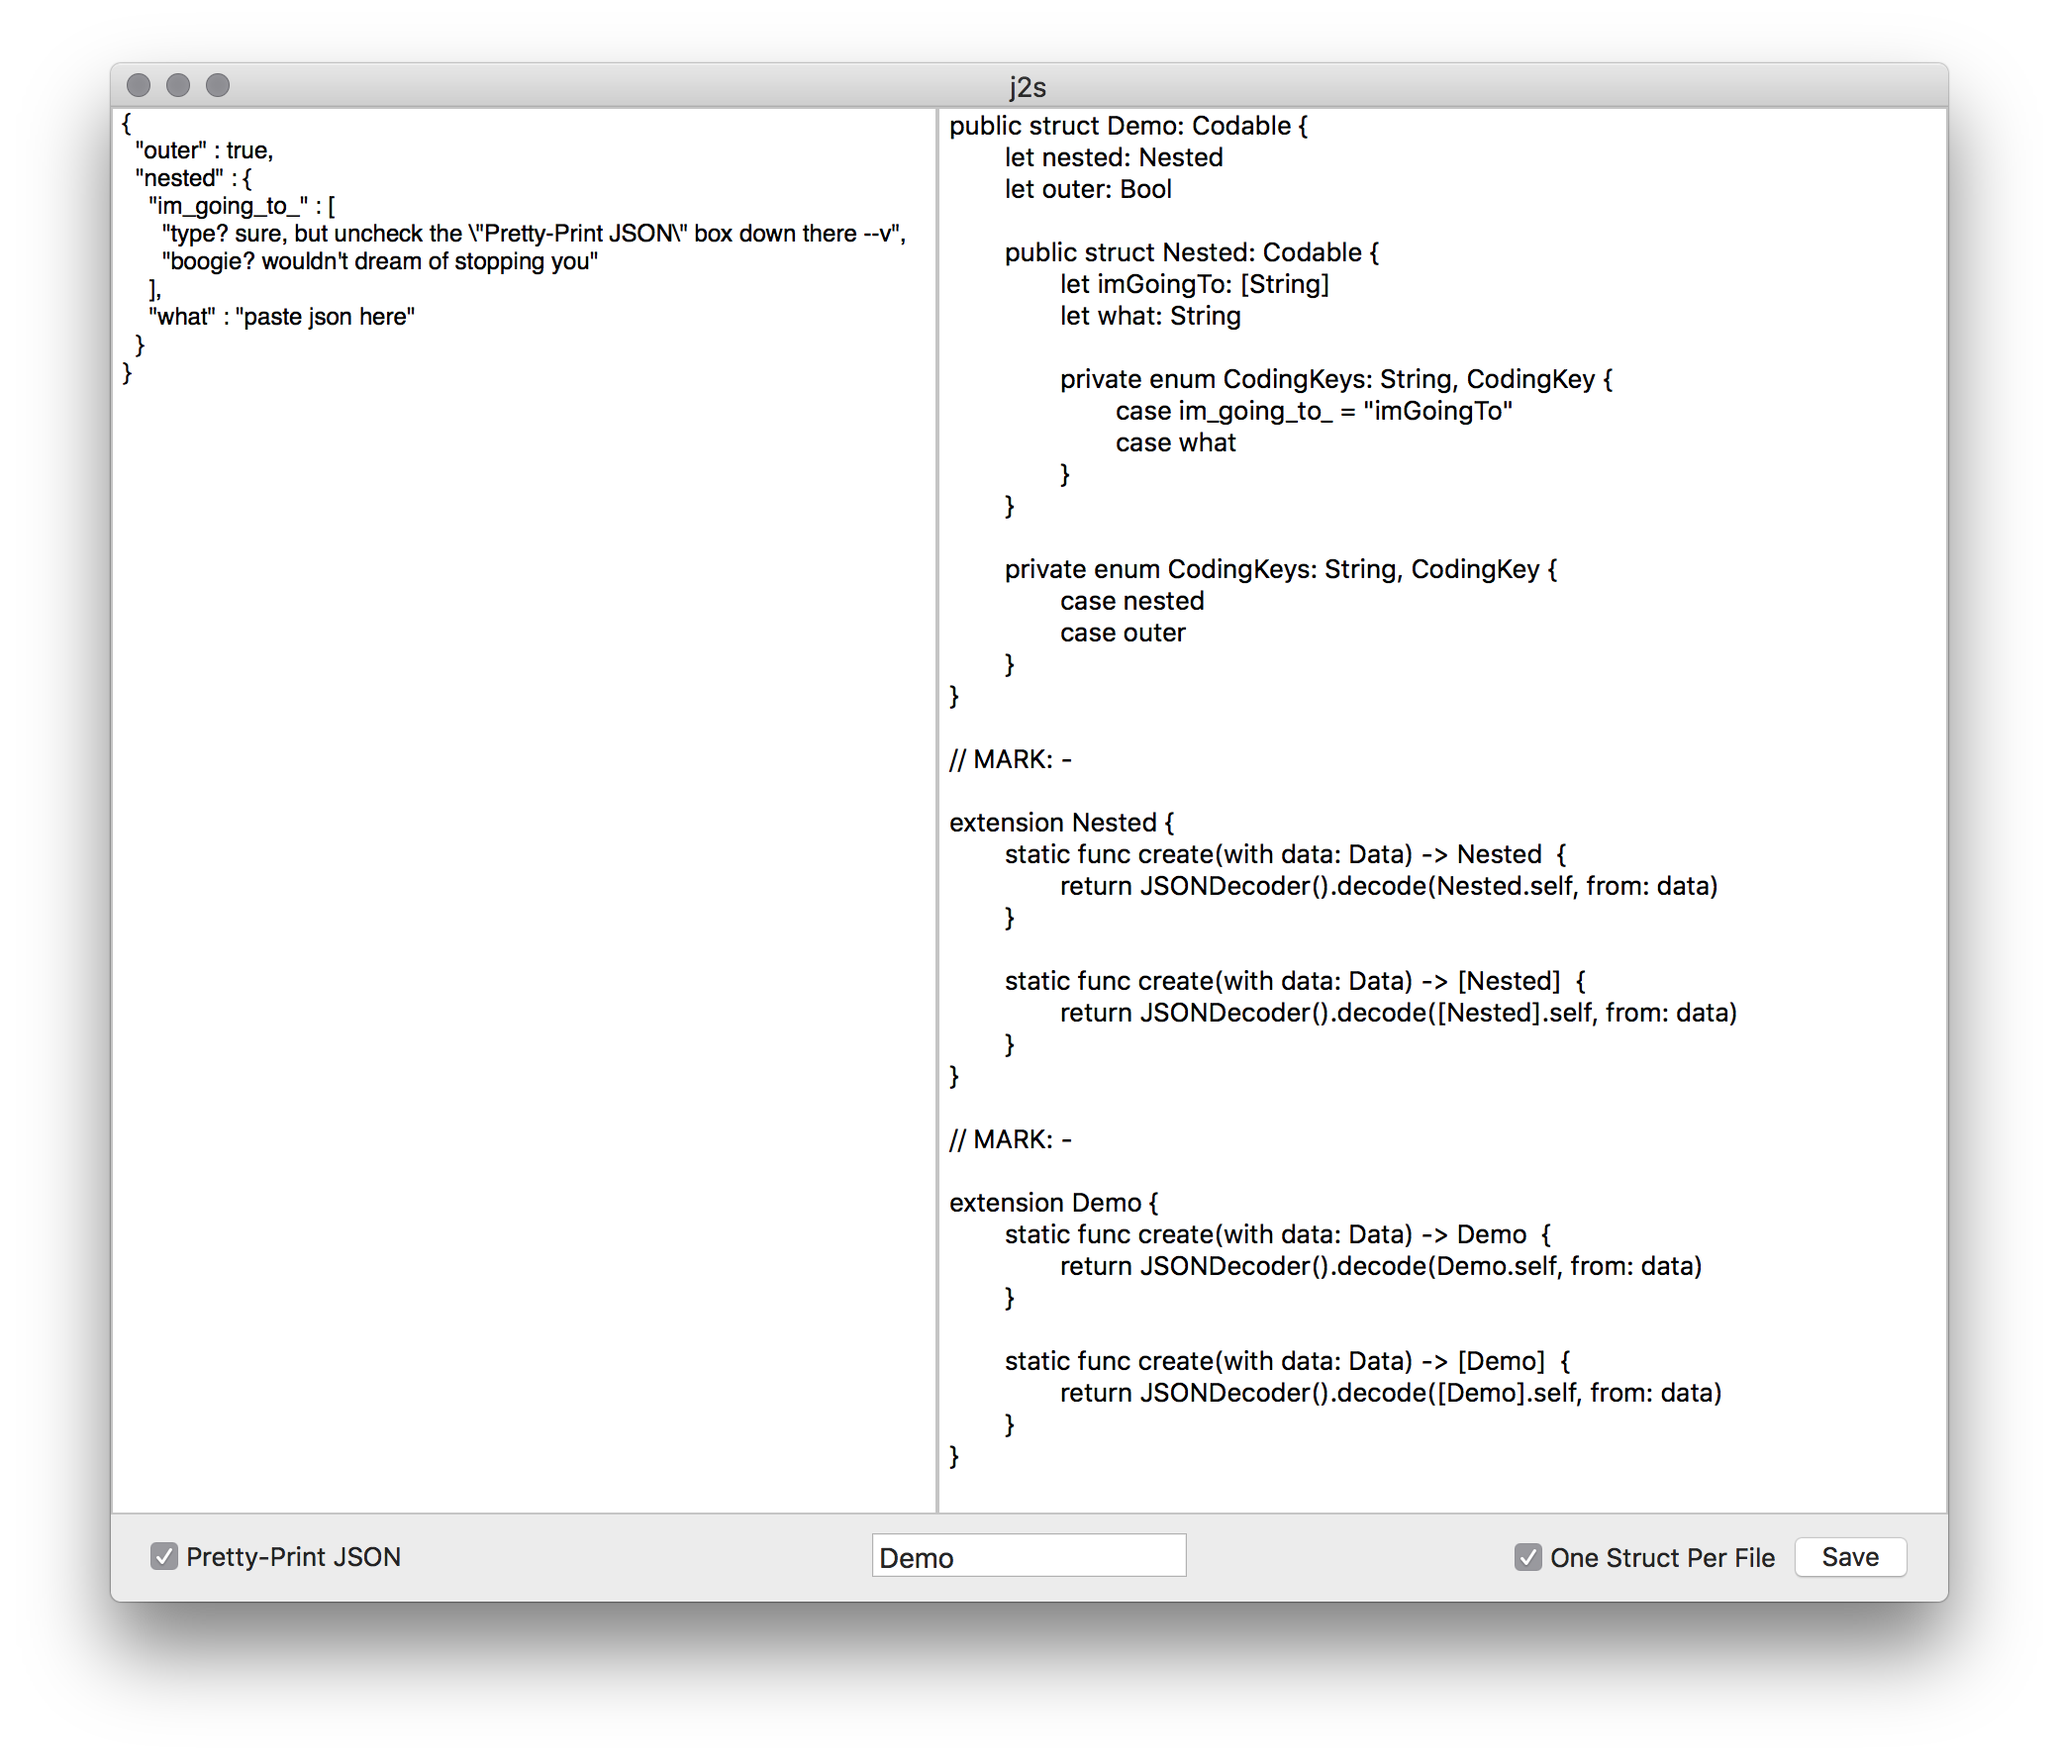
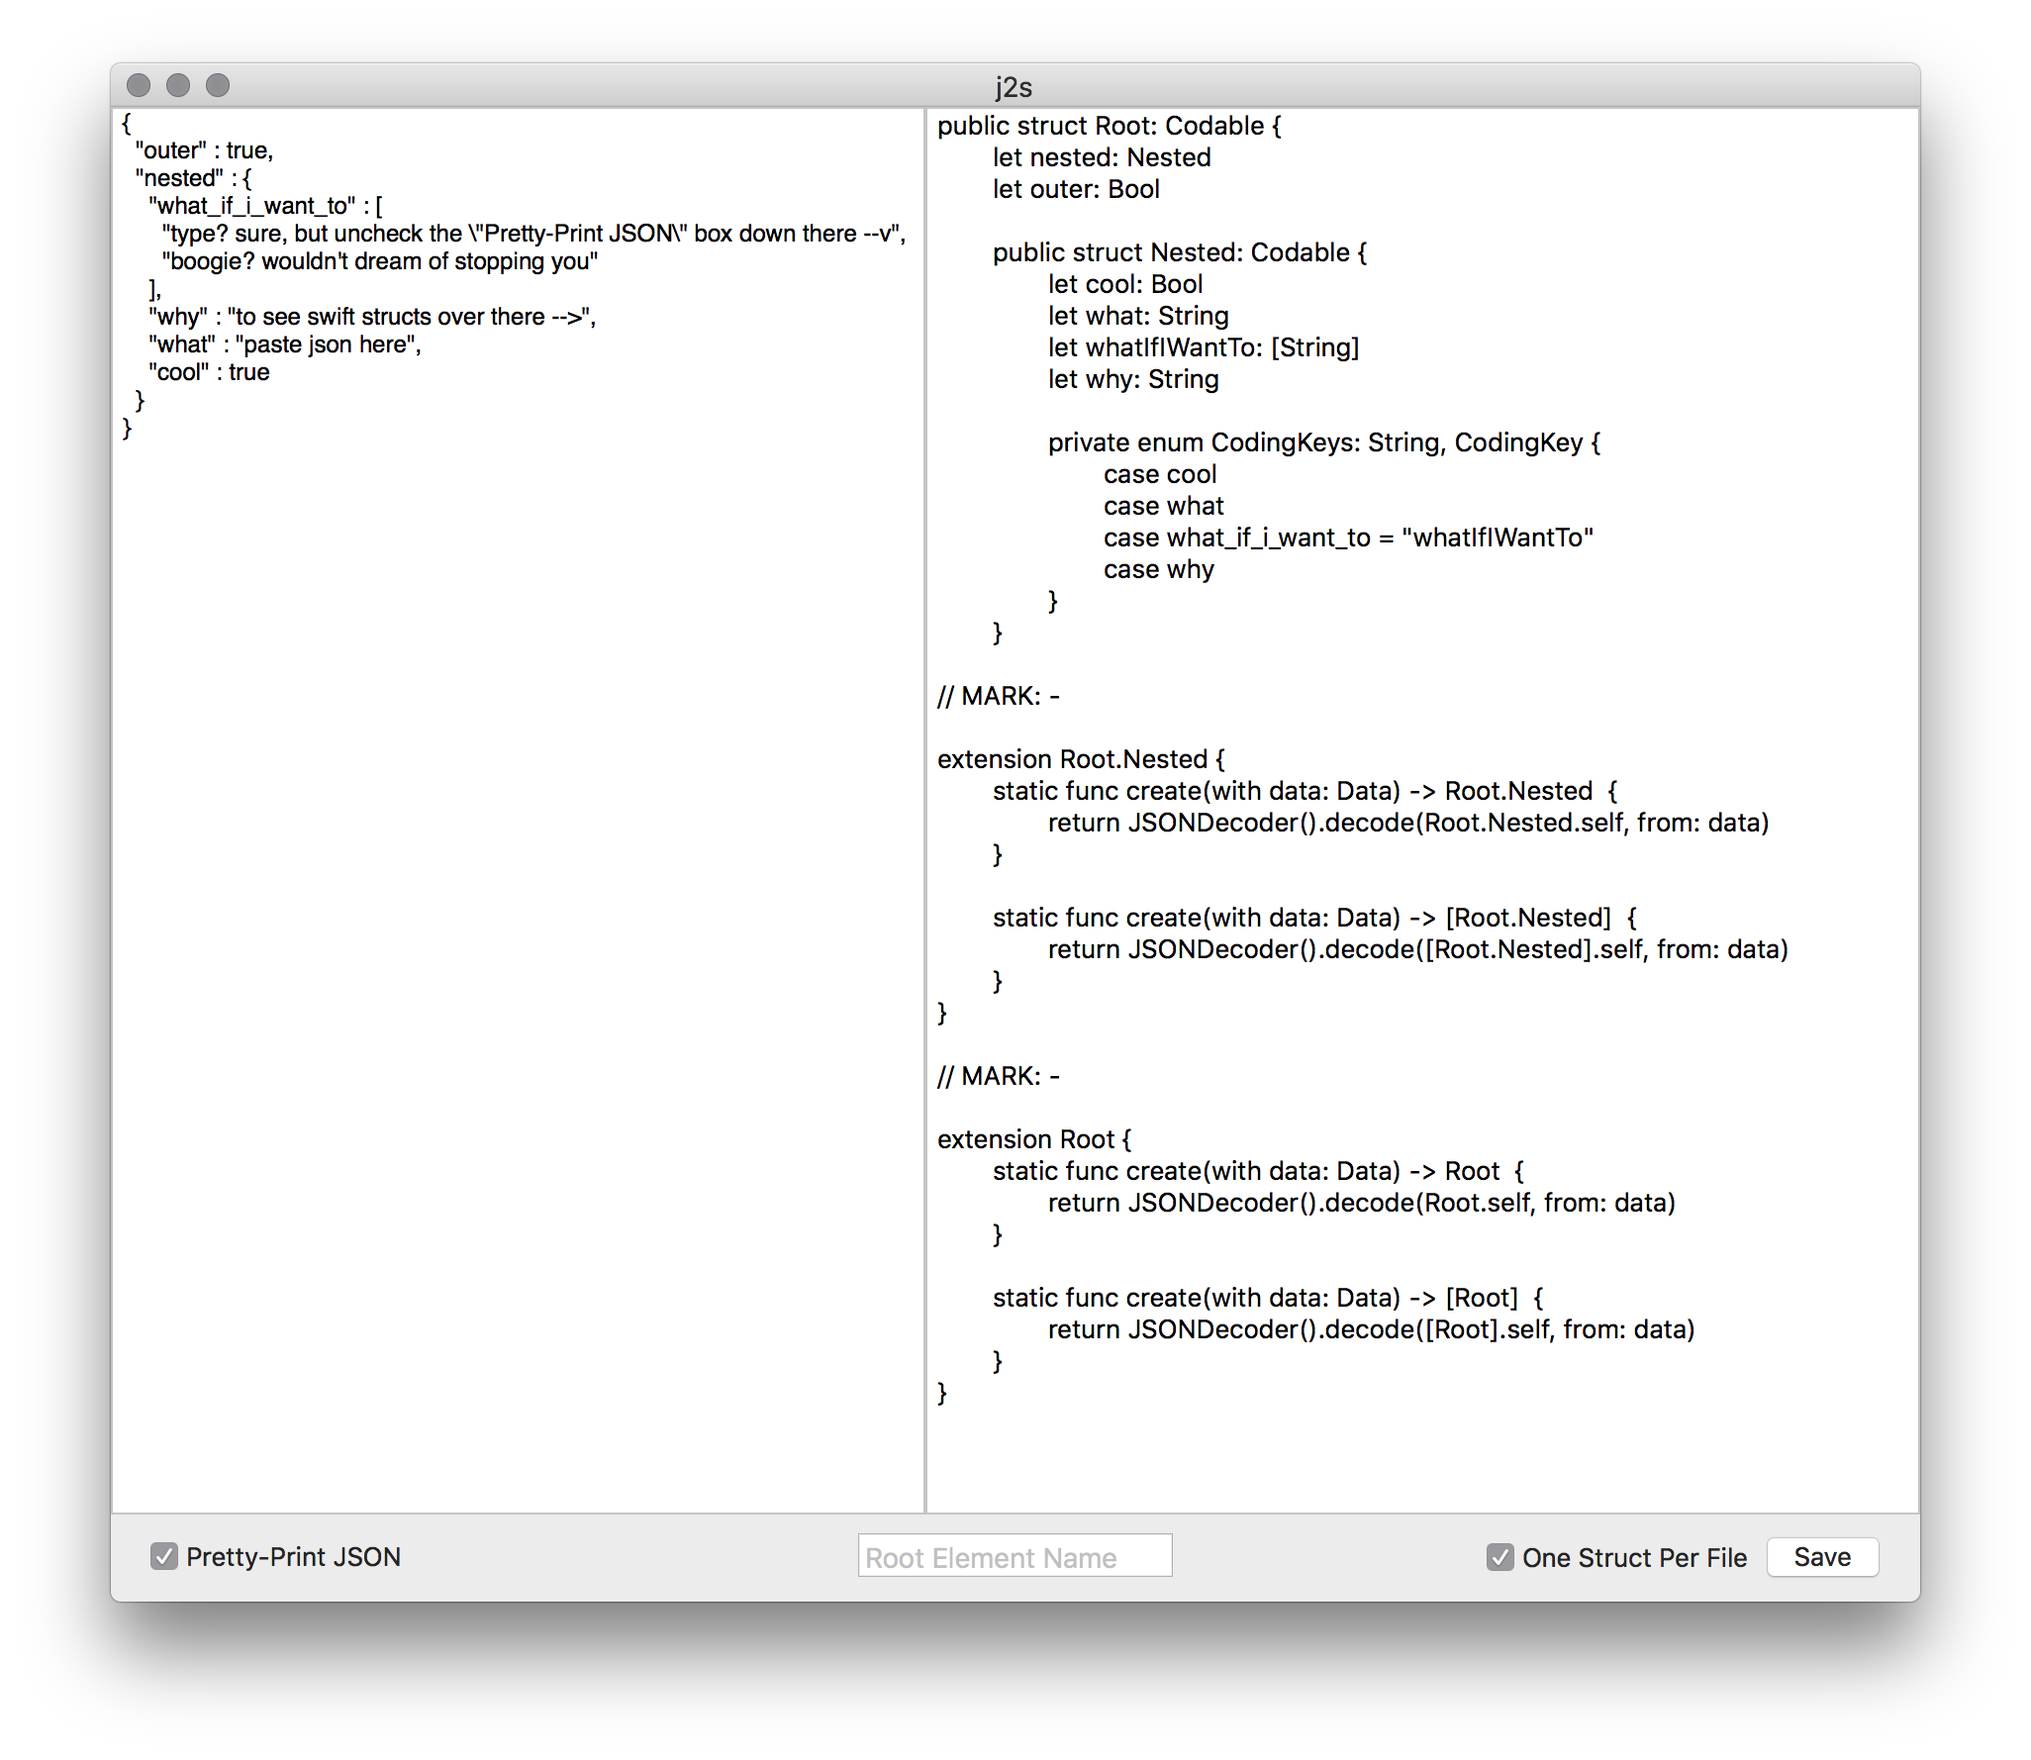
extensions type name has a chain that includes any of their parents. only include CodingKeys enum if any modifications have been made. update README for all this.

diff --git a/j2s/Codegen.swift b/j2s/Codegen.swift
@@ -7,6 +7,18 @@ public class Struct {
 	var parent: Struct? = nil
 	var children = [Struct]()
 
+	var recursiveTypeName: String {
+		var typeName = name.generatedClassName()
+		var p = parent
+
+		while p != nil {
+			typeName = "\(p!.name.generatedClassName()).\(typeName)"
+			p = parent?.parent
+		}
+
+		return typeName
+	}
+
 	init(name: String, properties: Set<Property>) {
 		self.name = name
 		self.properties = properties
@@ -26,20 +38,21 @@ public class Struct {
 			}).joined(separator: "\n\t")
 		}
 
-		code += "\n\n"
-		code += """
-			\(codingKeysCode)
+		let codingKeys = codingKeysCode
+		if !codingKeys.isEmpty {
+			code += "\n\n"
+			code += """
+				\(codingKeys)
+			}
+			"""
 		}
-		"""
 
 		return code
 	}
 
 	public var extensionDeclaration: String {
-		let typeName = name.generatedClassName()
-
 		return """
-		extension \(typeName) {
+		extension \(recursiveTypeName) {
 		\(singleInitCode)
 
 		\(multipleInitCode)
@@ -67,19 +80,17 @@ public class Struct {
 		}
 
 		if strategies.isEmpty {
-			let typeName = name.generatedClassName()
 			return """
-			\tstatic func create(with data: Data) -> \(typeName)  {
-				\treturn JSONDecoder().decode(\(typeName).self, from: data)
+			\tstatic func create(with data: Data) -> \(recursiveTypeName)  {
+				\treturn JSONDecoder().decode(\(recursiveTypeName).self, from: data)
 			\t}
 			"""
 		} else if strategies.contains(.iso8601) {
-			let typeName = name.generatedClassName()
 			return """
-			\tstatic func create(with data: Data) -> \(typeName)  {
+			\tstatic func create(with data: Data) -> \(recursiveTypeName)  {
 				\tlet decoder = JSONDecoder()
 				\tdecoder.dateDecodingStrategy = .iso8601
-				\treturn decoder.decode(\(typeName).self, from: data)
+				\treturn decoder.decode(\(recursiveTypeName).self, from: data)
 			\t}
 			"""
 		} else {
@@ -97,19 +108,17 @@ public class Struct {
 		}
 
 		if strategies.isEmpty {
-			let typeName = name.generatedClassName()
 			return """
-			\tstatic func create(with data: Data) -> [\(typeName)]  {
-				\treturn JSONDecoder().decode([\(typeName)].self, from: data)
+			\tstatic func create(with data: Data) -> [\(recursiveTypeName)]  {
+				\treturn JSONDecoder().decode([\(recursiveTypeName)].self, from: data)
 			\t}
 			"""
 		} else if strategies.contains(.iso8601) {
-			let typeName = name.generatedClassName()
 			return """
-			\tstatic func create(with data: Data) -> [\(typeName)]  {
+			\tstatic func create(with data: Data) -> [\(recursiveTypeName)]  {
 				\tlet decoder = JSONDecoder()
 				\tdecoder.dateDecodingStrategy = .iso8601
-				\treturn decoder.decode([\(typeName)].self, from: data)
+				\treturn decoder.decode([\(recursiveTypeName)].self, from: data)
 			\t}
 			"""
 		} else {
@@ -120,14 +129,22 @@ public class Struct {
 
 	private var codingKeysCode: String {
 		let sorted = properties.sorted(by: { x, y in return x.name < y.name })
-		return "private enum CodingKeys: String, CodingKey {\n\t" +
-			sorted.map({ (p: Property) -> String in
+		var modified = false // map having side effects is :/
+		let codingKeys = sorted.map({ (p: Property) -> String in
 			let camelCased = p.name.camelCased()
 			if camelCased == p.name {
 				return "\tcase \(p.name)"
 			}
+
+			modified = true
 			return "\tcase \(p.name) = \"\(camelCased)\""
-		}).joined(separator: "\n\t") + "\n\t}"
+		}).joined(separator: "\n\t")
+
+		if modified {
+			return "private enum CodingKeys: String, CodingKey {\n\t" + codingKeys + "\n\t}"
+		}
+
+		return ""
 	}
 }
 

diff --git a/README.md b/README.md
@@ -27,59 +27,61 @@ Also, an `Int` like `5` is an `Int` and a floating point number like `5.0` is a 
 
 ```json
 {
-  "what_if_i_want_to" : [
-    "type? sure, but uncheck the \"Pretty-Print JSON\" box down there --v",
-    "boogie? wouldn't dream of stopping you"
-  ],
-  "why" : "to see swift structs over there -->",
-  "what" : "paste json here"
+  "outer" : true,
+  "nested" : {
+    "what_if_i_want_to" : [
+      "type? sure, but uncheck the \"Pretty-Print JSON\" box down there --v",
+      "boogie? wouldn't dream of stopping you"
+    ],
+    "why" : "to see swift structs over there -->",
+    "what" : "paste json here",
+    "cool" : true
+  }
 }
 ```
 
 and turn it into Swift code that looks like this:
 
 ```swift
-public struct Demo: Codable {
+public struct Root: Codable {
 	let nested: Nested
 	let outer: Bool
 
 	public struct Nested: Codable {
-		let imGoingTo: [String]
+		let cool: Bool
 		let what: String
+		let whatIfIWantTo: [String]
+		let why: String
 
 		private enum CodingKeys: String, CodingKey {
-			case im_going_to_ = "imGoingTo"
+			case cool
 			case what
+			case what_if_i_want_to = "whatIfIWantTo"
+			case why
 		}
 	}
 
-	private enum CodingKeys: String, CodingKey {
-		case nested
-		case outer
+// MARK: -
+
+extension Root.Nested {
+	static func create(with data: Data) -> Root.Nested  {
+		return JSONDecoder().decode(Root.Nested.self, from: data)
+	}
+
+	static func create(with data: Data) -> [Root.Nested]  {
+		return JSONDecoder().decode([Root.Nested].self, from: data)
 	}
 }
 
 // MARK: -
 
-extension Nested {
-	static func create(with data: Data) -> Nested  {
-		return JSONDecoder().decode(Nested.self, from: data)
+extension Root {
+	static func create(with data: Data) -> Root  {
+		return JSONDecoder().decode(Root.self, from: data)
 	}
 
-	static func create(with data: Data) -> [Nested]  {
-		return JSONDecoder().decode([Nested].self, from: data)
-	}
-}
-
-// MARK: -
-
-extension Demo {
-	static func create(with data: Data) -> Demo  {
-		return JSONDecoder().decode(Demo.self, from: data)
-	}
-
-	static func create(with data: Data) -> [Demo]  {
-		return JSONDecoder().decode([Demo].self, from: data)
+	static func create(with data: Data) -> [Root]  {
+		return JSONDecoder().decode([Root].self, from: data)
 	}
 }
 ```
